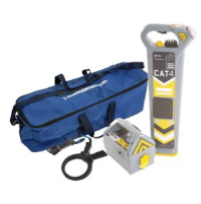
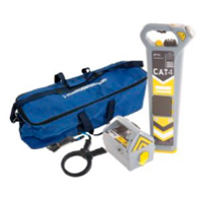
aspect-ratio-pictures
aspect ratio pictures

diff --git a/src/html/_equipment.htm b/src/html/_equipment.htm
@@ -4,7 +4,7 @@
       <div class="equipment__body">
          <div class="equipment__item">
             <a href="#!" class="equipment__image">
-               <img data-src="@img/equipment/image-1.jpg" alt="Image" width="201" height="204">
+               <img data-src="@img/equipment/image-1.jpg" alt="Image" width="200" height="200">
             </a>
             <div class="equipment__content">
                <a href="#!" class="equipment__title title-h2">Surveying equipment</a>
@@ -26,7 +26,7 @@
          </div>
          <div class="equipment__item">
             <a href="#!" class="equipment__image">
-               <img data-src="@img/equipment/image-1.jpg" alt="Image" width="201" height="204">
+               <img data-src="@img/equipment/image-1.jpg" alt="Image" width="200" height="200">
             </a>
             <div class="equipment__content">
                <a href="#!" class="equipment__title title-h2">Surveying equipment</a>
@@ -48,7 +48,7 @@
          </div>
          <div class="equipment__item">
             <a href="#!" class="equipment__image">
-               <img data-src="@img/equipment/image-1.jpg" alt="Image" width="201" height="204">
+               <img data-src="@img/equipment/image-1.jpg" alt="Image" width="200" height="200">
             </a>
             <div class="equipment__content">
                <a href="#!" class="equipment__title title-h2">Surveying equipment</a>
@@ -70,7 +70,7 @@
          </div>
          <div class="equipment__item">
             <a href="#!" class="equipment__image">
-               <img data-src="@img/equipment/image-1.jpg" alt="Image" width="201" height="204">
+               <img data-src="@img/equipment/image-1.jpg" alt="Image" width="200" height="200">
             </a>
             <div class="equipment__content">
                <a href="#!" class="equipment__title title-h2">Surveying equipment</a>
@@ -92,7 +92,7 @@
          </div>
          <div class="equipment__item">
             <a href="#!" class="equipment__image">
-               <img data-src="@img/equipment/image-1.jpg" alt="Image" width="201" height="204">
+               <img data-src="@img/equipment/image-1.jpg" alt="Image" width="200" height="200">
             </a>
             <div class="equipment__content">
                <a href="#!" class="equipment__title title-h2">Surveying equipment</a>
@@ -114,7 +114,7 @@
          </div>
          <div class="equipment__item">
             <a href="#!" class="equipment__image">
-               <img data-src="@img/equipment/image-1.jpg" alt="Image" width="201" height="204">
+               <img data-src="@img/equipment/image-1.jpg" alt="Image" width="200" height="200">
             </a>
             <div class="equipment__content">
                <a href="#!" class="equipment__title title-h2">Surveying equipment</a>
